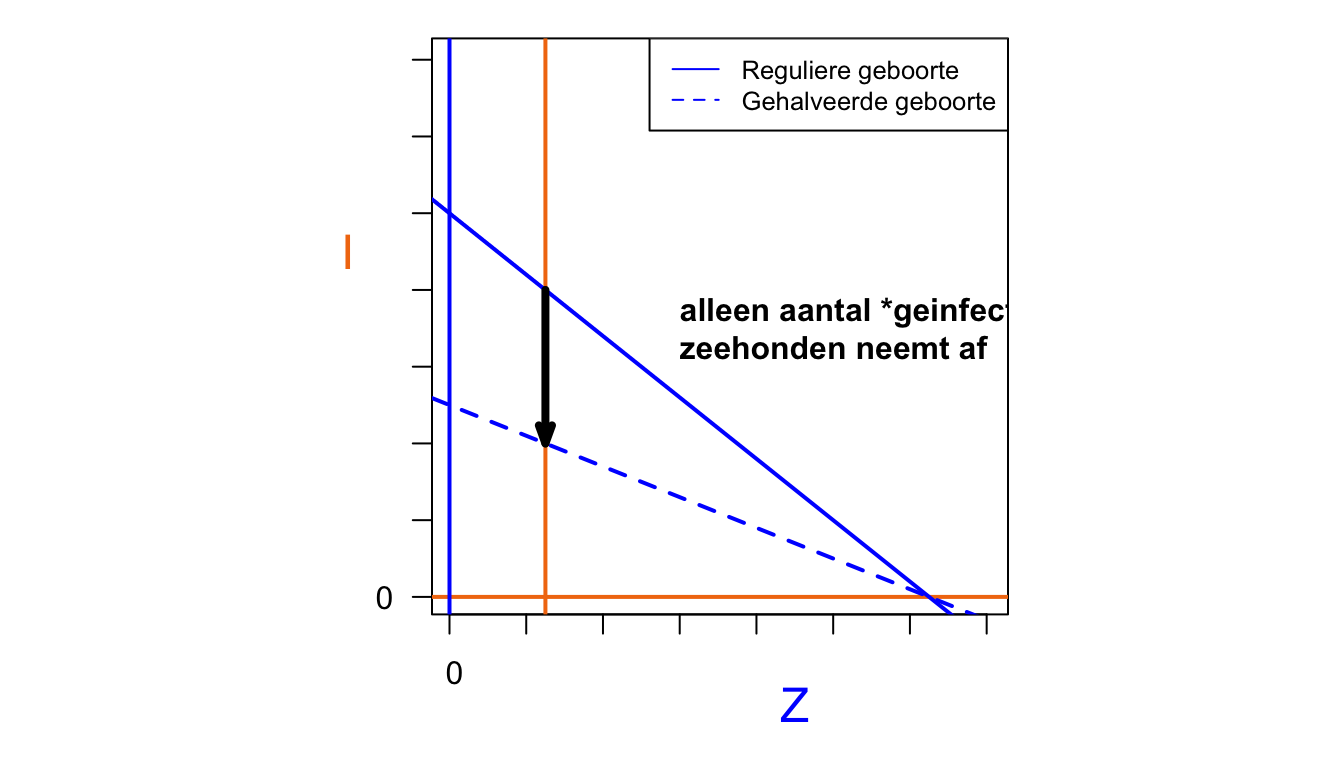
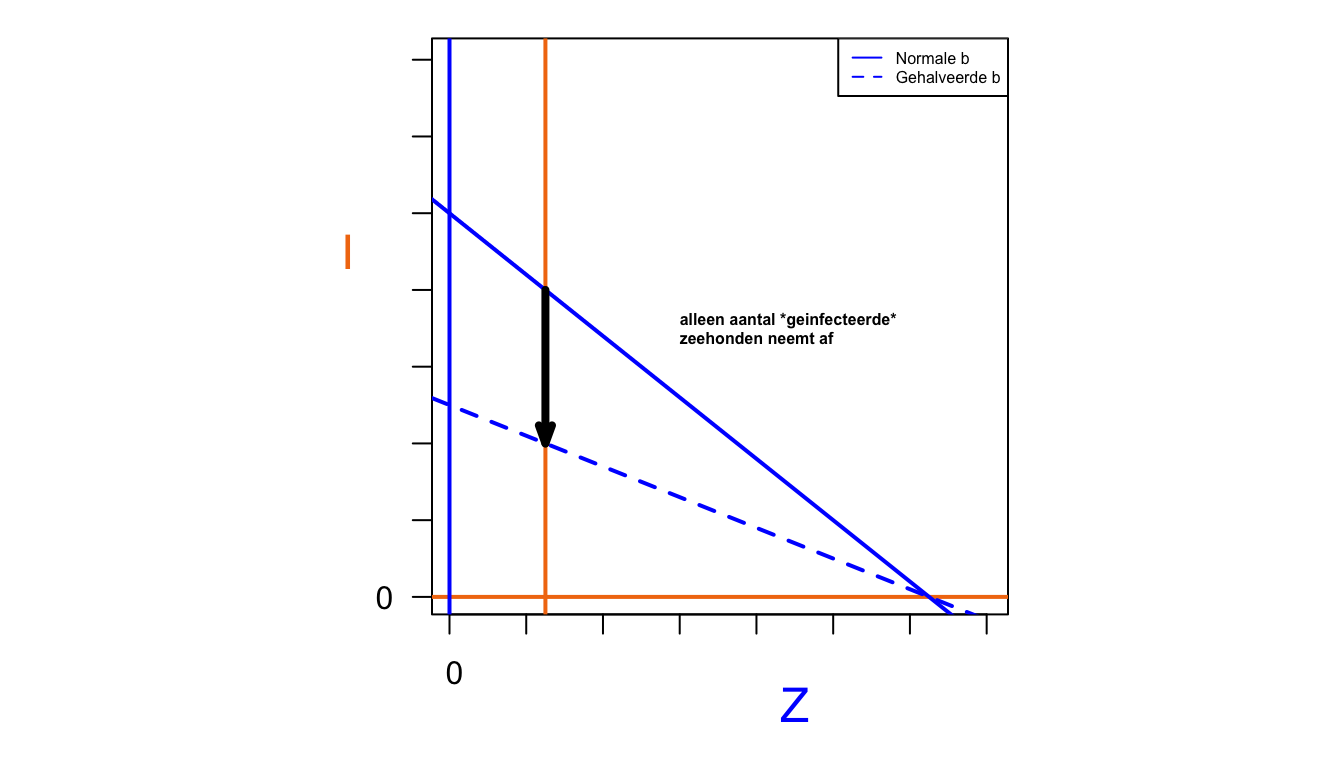
Dispatch book 2025-02-22

Changed region(s): [[0.5, 0.0625, 0.75, 0.1875], [0.5, 0.375, 0.75, 0.4688]]

diff --git a/Appendices/antwoorden_modellen.html b/Appendices/antwoorden_modellen.html
@@ -1773,10 +1773,10 @@ I &amp;= -\frac{\delta b}{k \beta^2} + \frac{b - d}{\beta}
 <span id="cb31-27"><a href="#cb31-27" aria-hidden="true" tabindex="-1"></a><span class="fu">arrows</span>(<span class="dv">25</span>, <span class="dv">80</span>, <span class="dv">25</span>, <span class="dv">40</span>, <span class="at">length =</span> <span class="fl">0.1</span>, <span class="at">angle =</span> <span class="dv">20</span>, <span class="at">col=</span><span class="st">"black"</span>,<span class="at">lwd=</span><span class="dv">4</span>)</span>
 <span id="cb31-28"><a href="#cb31-28" aria-hidden="true" tabindex="-1"></a><span class="co"># add text saying "alleen aantal geinfecteerde zeehonden neemt af", met een stippellijn verbonden met het midden van de pijl, verdeeld over twee regels en met een witten achtergrondkleur zodat het leesbaar is</span></span>
 <span id="cb31-29"><a href="#cb31-29" aria-hidden="true" tabindex="-1"></a></span>
-<span id="cb31-30"><a href="#cb31-30" aria-hidden="true" tabindex="-1"></a><span class="fu">text</span>(<span class="dv">60</span>, <span class="dv">70</span>, <span class="st">"alleen aantal *geinfecteerde* </span><span class="sc">\n</span><span class="st">zeehonden neemt af"</span>, <span class="at">adj=</span><span class="dv">0</span>, <span class="at">cex=</span><span class="fl">1.0</span>, <span class="at">col=</span><span class="st">"black"</span>, <span class="at">font=</span><span class="dv">2</span>, <span class="at">bg=</span><span class="st">"white"</span>)</span>
+<span id="cb31-30"><a href="#cb31-30" aria-hidden="true" tabindex="-1"></a><span class="fu">text</span>(<span class="dv">60</span>, <span class="dv">70</span>, <span class="st">"alleen aantal *geinfecteerde* </span><span class="sc">\n</span><span class="st">zeehonden neemt af"</span>, <span class="at">adj=</span><span class="dv">0</span>, <span class="at">cex=</span><span class="fl">0.5</span>, <span class="at">col=</span><span class="st">"black"</span>, <span class="at">font=</span><span class="dv">2</span>, <span class="at">bg=</span><span class="st">"white"</span>)</span>
 <span id="cb31-31"><a href="#cb31-31" aria-hidden="true" tabindex="-1"></a></span>
 <span id="cb31-32"><a href="#cb31-32" aria-hidden="true" tabindex="-1"></a></span>
-<span id="cb31-33"><a href="#cb31-33" aria-hidden="true" tabindex="-1"></a><span class="fu">legend</span>(<span class="st">"topright"</span>, <span class="at">legend=</span><span class="fu">c</span>(<span class="st">"Reguliere geboorte"</span>, <span class="st">"Gehalveerde geboorte"</span>), <span class="at">col=</span><span class="fu">c</span>(<span class="st">"blue"</span>, <span class="st">"blue"</span>), <span class="at">lty=</span><span class="dv">1</span><span class="sc">:</span><span class="dv">2</span>, <span class="at">cex=</span><span class="fl">0.8</span>)</span></code><button title="Kopieer naar klembord" class="code-copy-button"><i class="bi"></i></button></pre></div>
+<span id="cb31-33"><a href="#cb31-33" aria-hidden="true" tabindex="-1"></a><span class="fu">legend</span>(<span class="st">"topright"</span>, <span class="at">legend=</span><span class="fu">c</span>(<span class="st">"Normale b"</span>, <span class="st">"Gehalveerde b"</span>), <span class="at">col=</span><span class="fu">c</span>(<span class="st">"blue"</span>, <span class="st">"blue"</span>), <span class="at">lty=</span><span class="dv">1</span><span class="sc">:</span><span class="dv">2</span>, <span class="at">cex=</span><span class="fl">0.5</span>)</span></code><button title="Kopieer naar klembord" class="code-copy-button"><i class="bi"></i></button></pre></div>
 </details>
 <div class="cell-output-display">
 <div>
@@ -2930,7 +2930,7 @@ window.document.addEventListener("DOMContentLoaded", function (event) {
 </div>
   </div>
 </footer>
-<script>var lightboxQuarto = GLightbox({"loop":false,"selector":".lightbox","descPosition":"bottom","openEffect":"zoom","closeEffect":"zoom"});
+<script>var lightboxQuarto = GLightbox({"openEffect":"zoom","selector":".lightbox","descPosition":"bottom","closeEffect":"zoom","loop":false});
 (function() {
   let previousOnload = window.onload;
   window.onload = () => {
